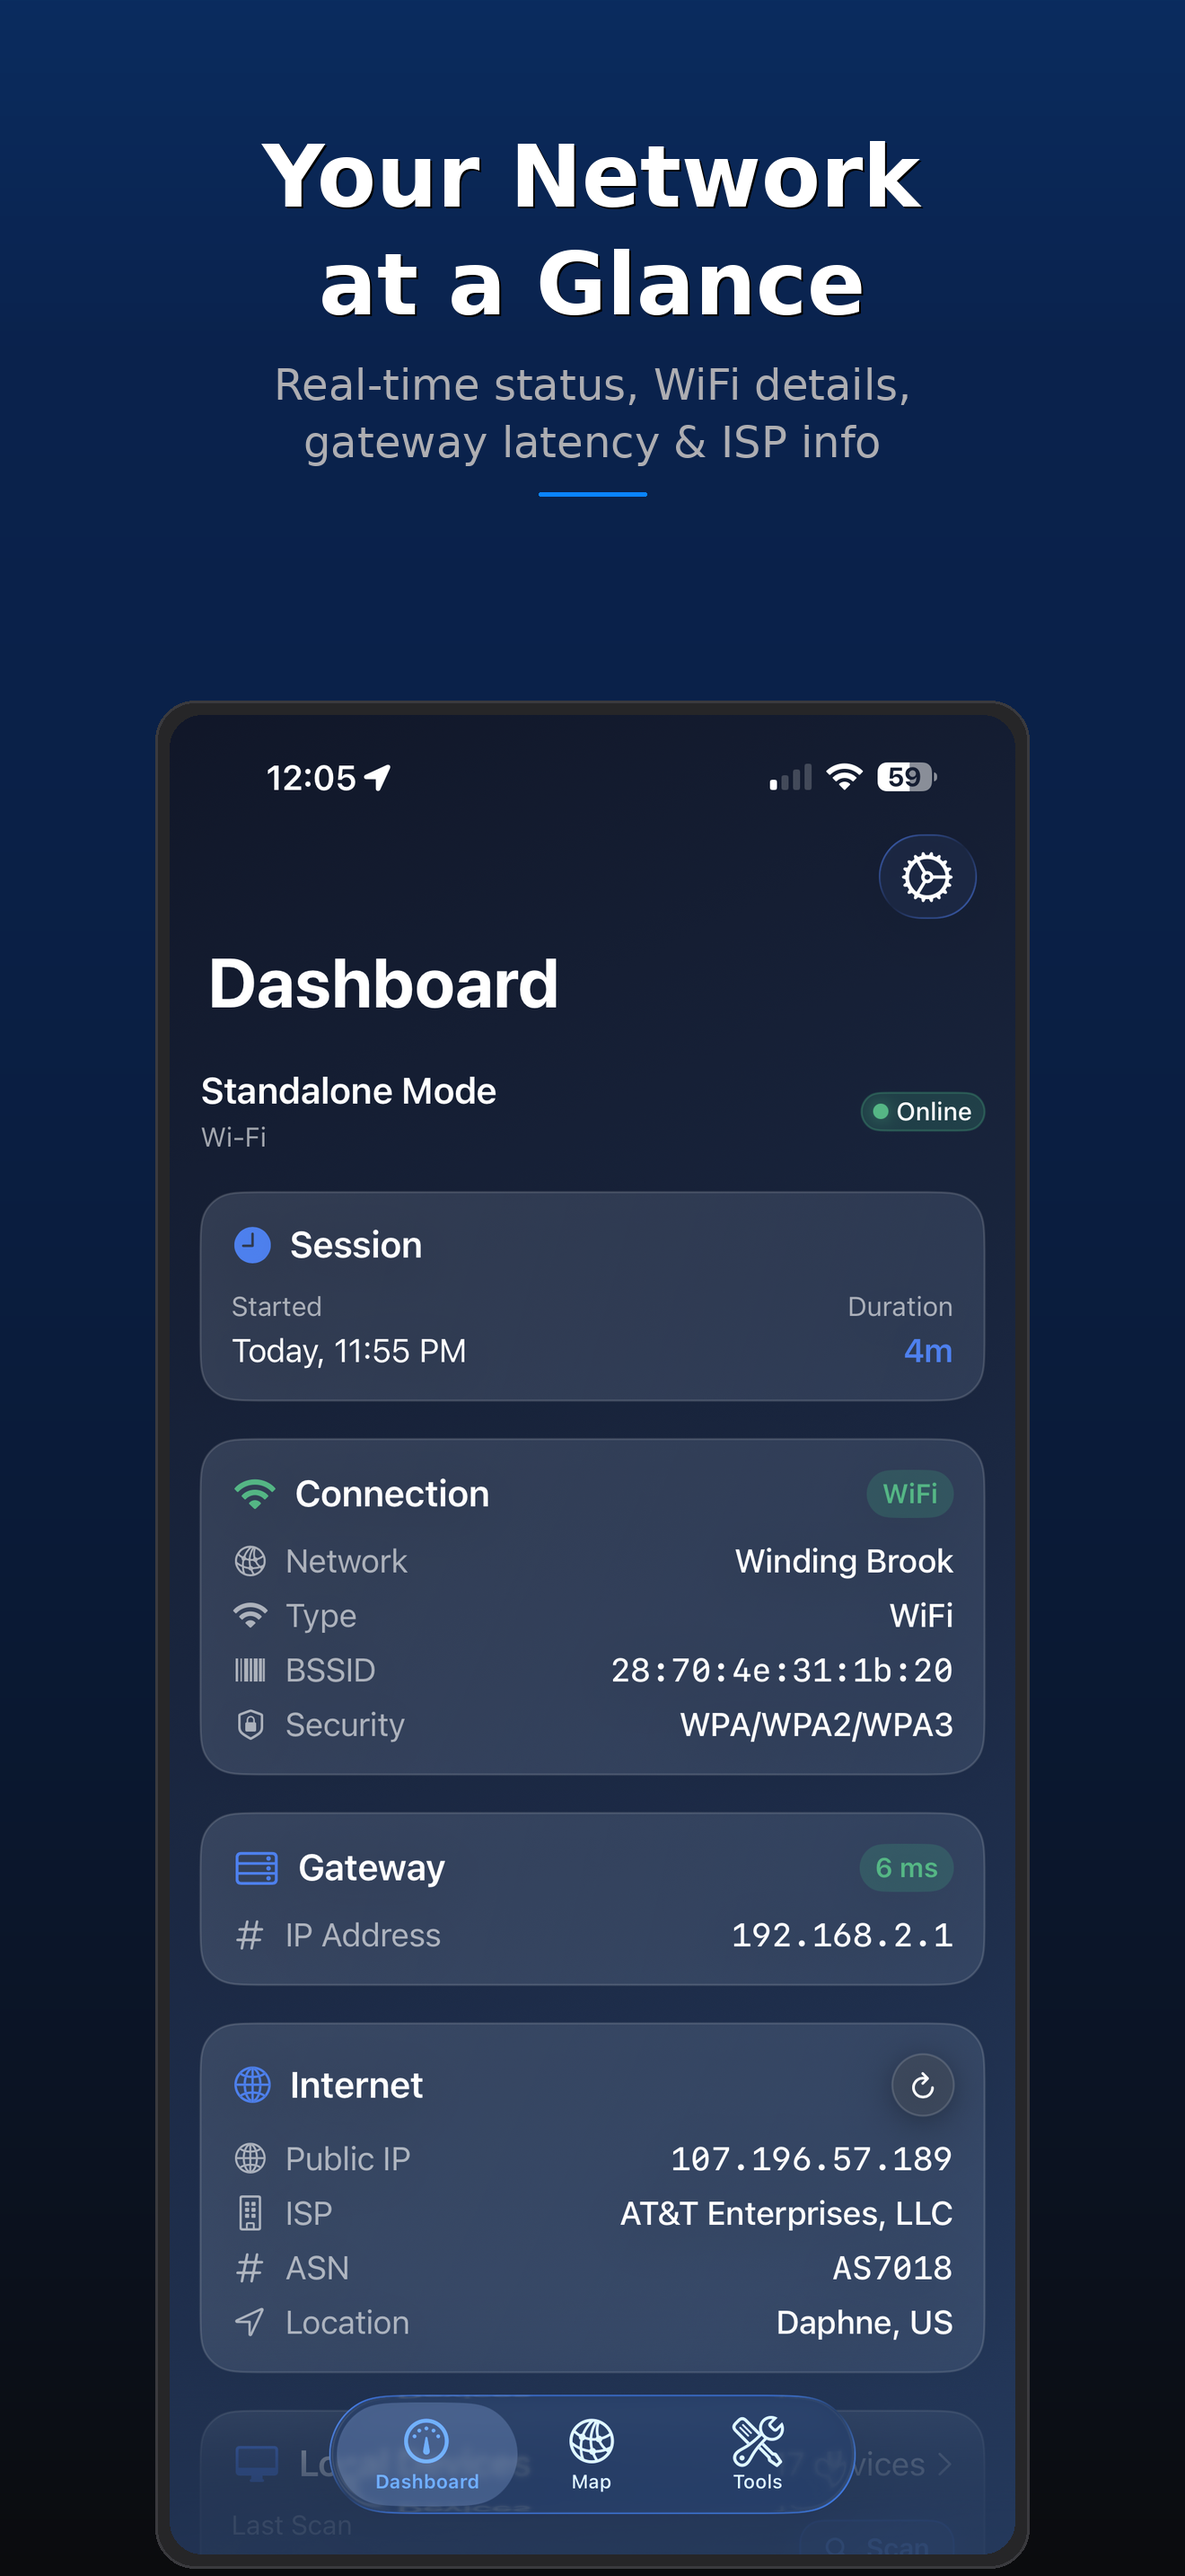
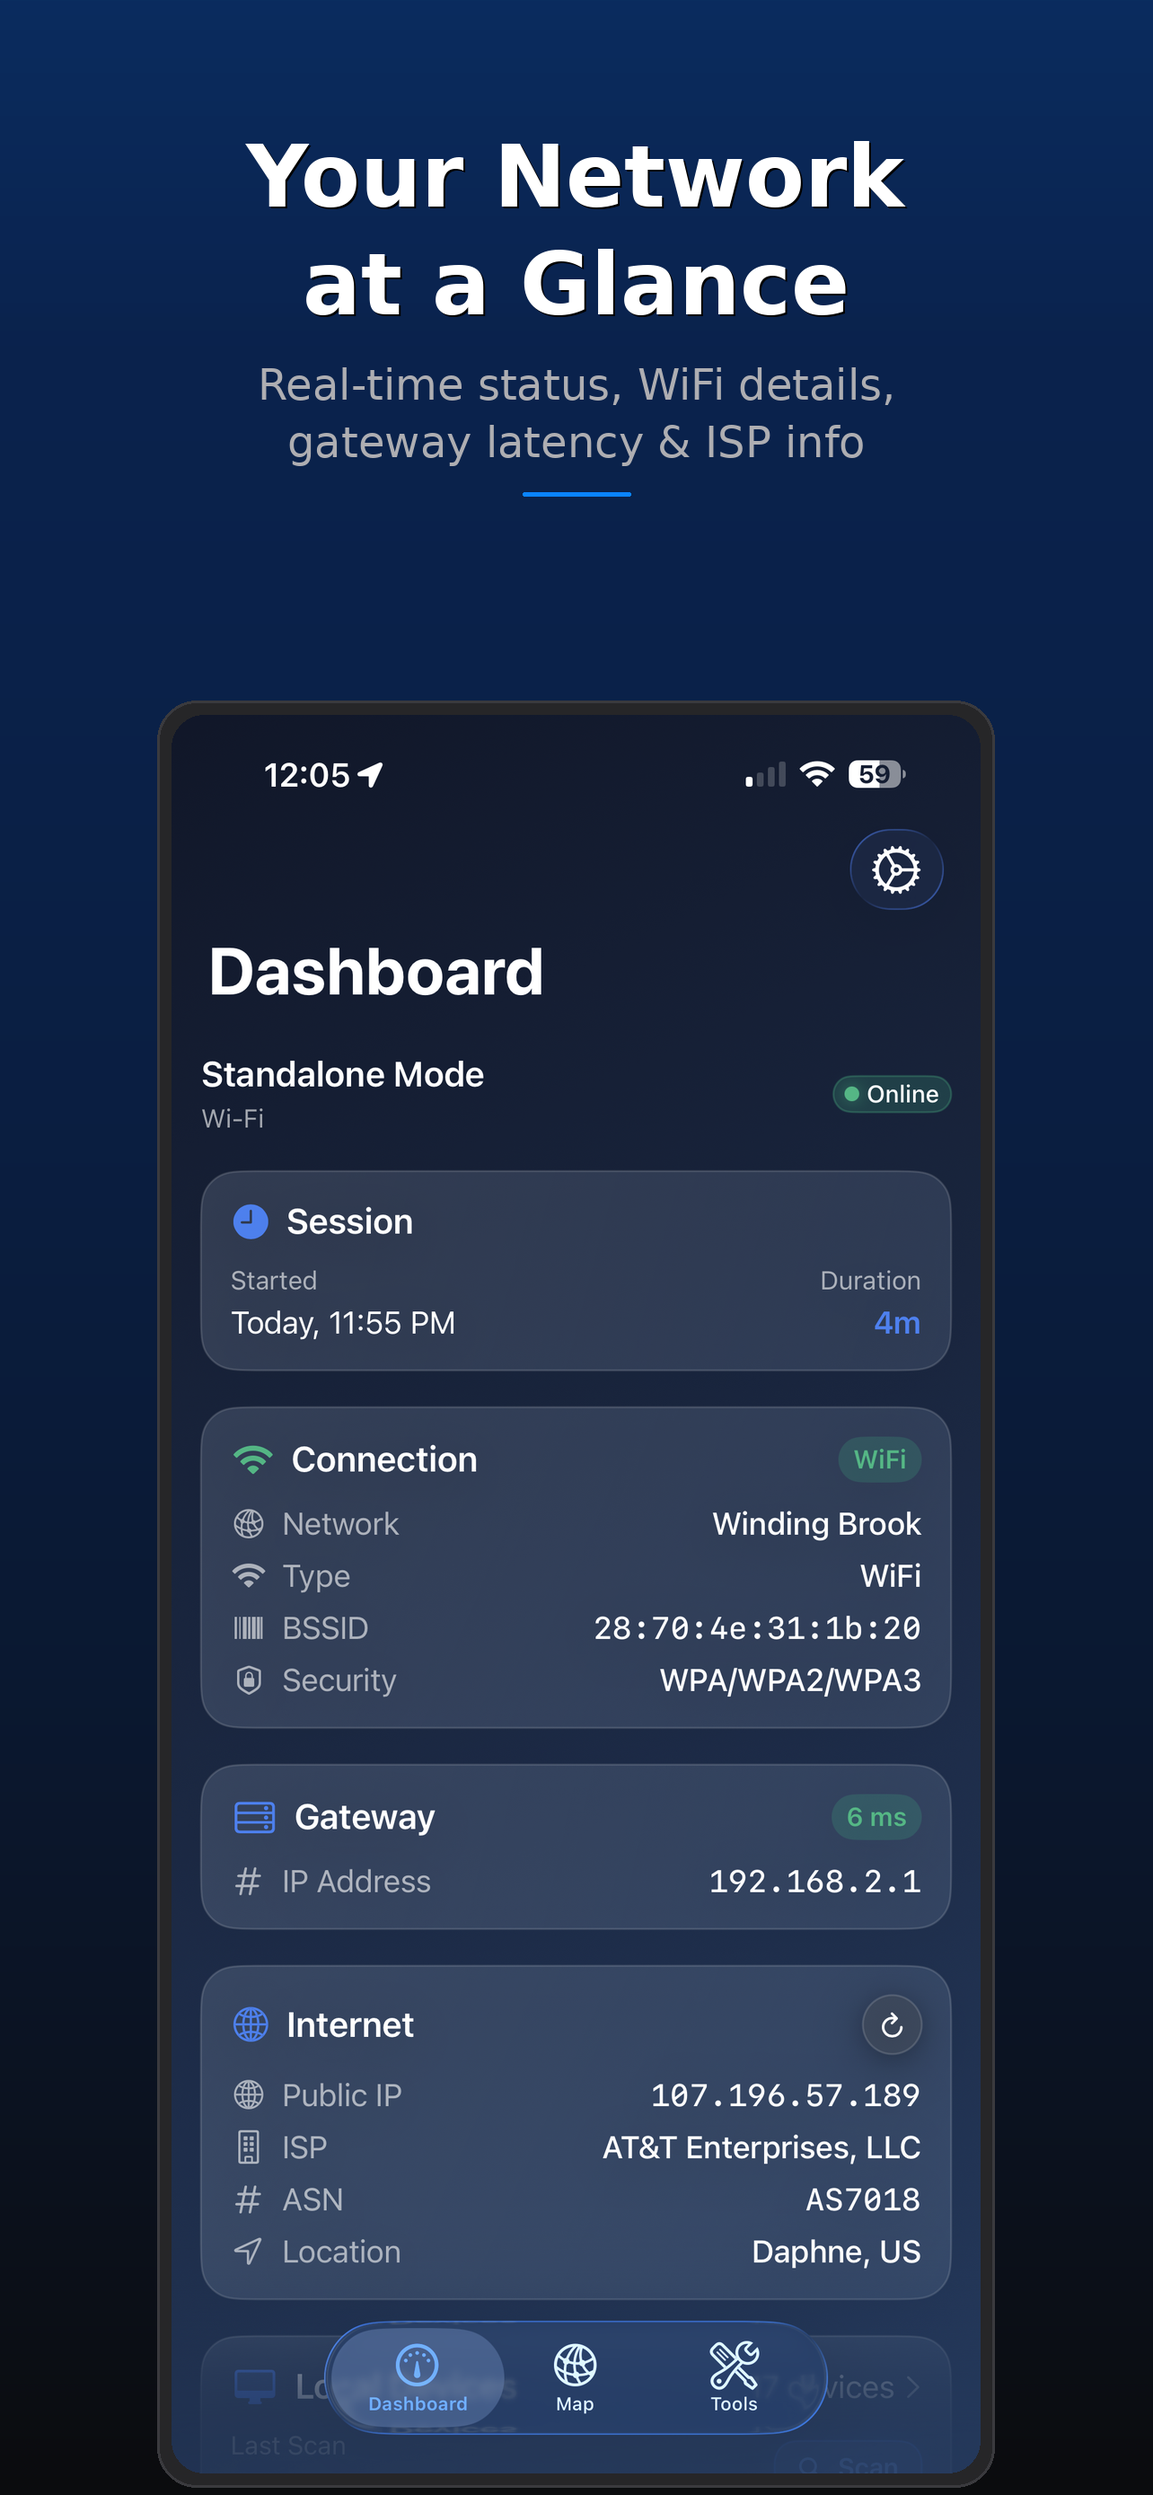
Update App Store screenshots and canvas size
Replace multiple AppStore screenshot images (01–10) and update generate_screenshots.py to use a new canvas size: 1284x2778 (previously 1320x2868). .DS_Store was also updated. These changes align the screenshot generator and assets with the new target resolution.

diff --git a/AppStore/generate_screenshots.py b/AppStore/generate_screenshots.py
@@ -25,8 +25,8 @@ import os
 import sys
 
 # === Configuration ===
-CANVAS_W = 1320
-CANVAS_H = 2868
+CANVAS_W = 1284
+CANVAS_H = 2778
 
 # Screenshot placement
 SCREENSHOT_SCALE = 0.82
